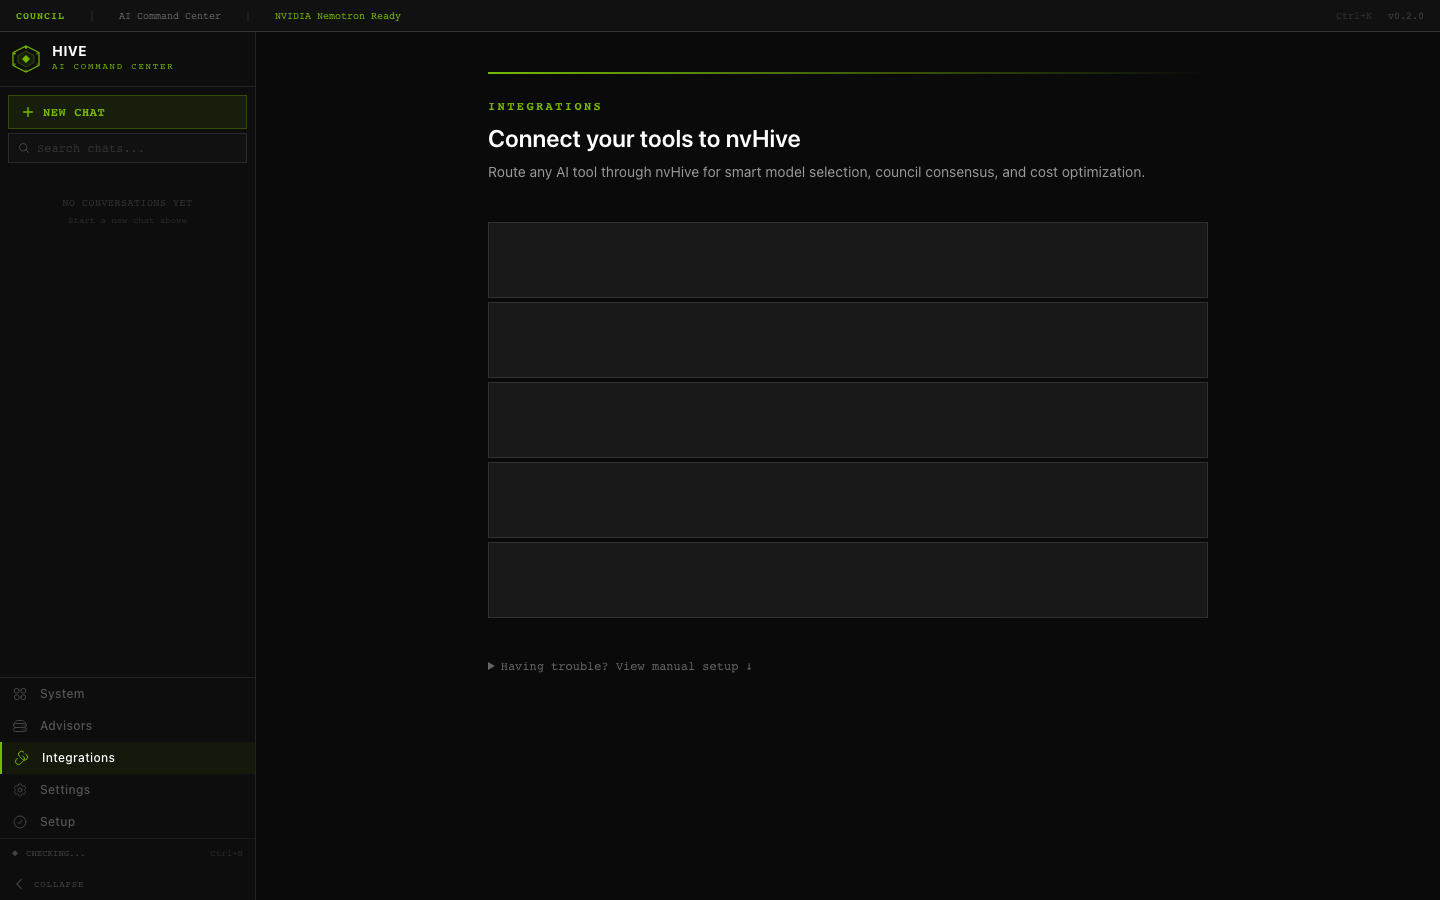
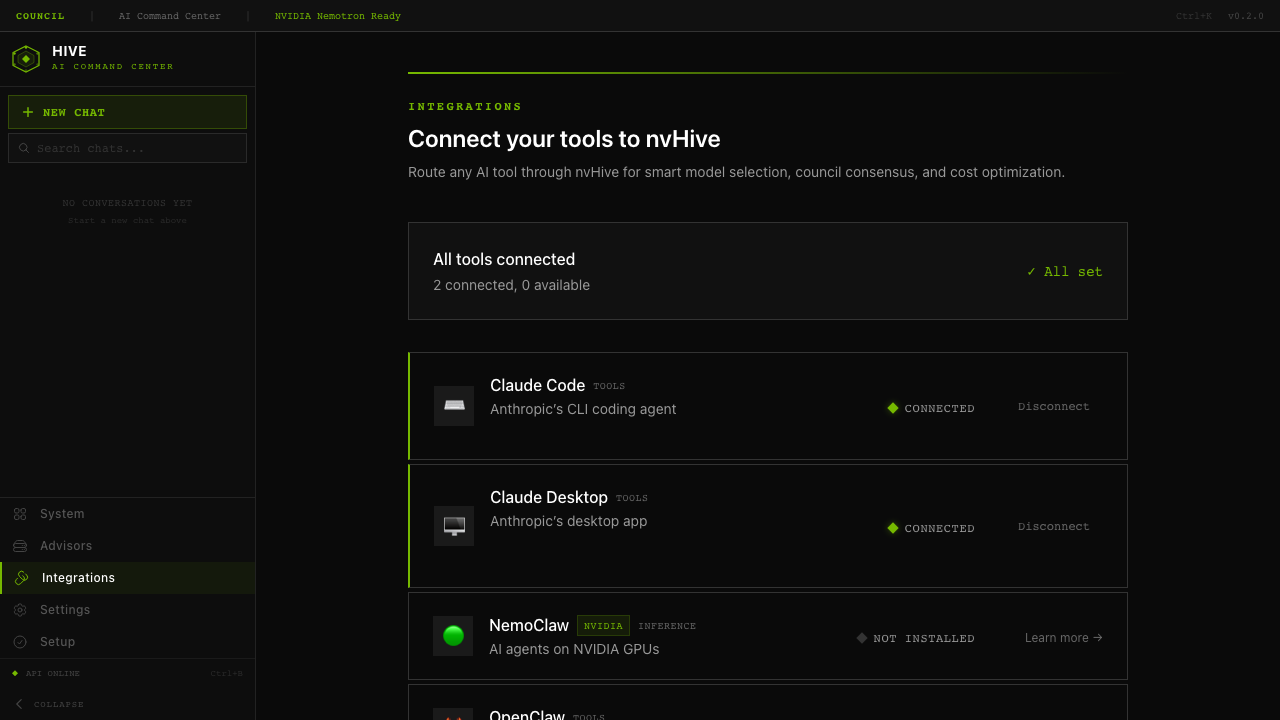
Update GIF and screenshots with populated data + CLI demo
- Recaptured WebUI GIF with real data (advisors showing LLM7 healthy,
  OpenAI configured, NVIDIA Nemotron recommended card)
- Longer capture wait times so provider cards fully load
- Updated standalone screenshots to match GIF frames
- CLI terminal demo SVG showing: install → setup → ask → council →
  webui → integrate flow with realistic output
- Both GIF and SVG displayed in README hero section

diff --git a/README.md b/README.md
@@ -8,6 +8,10 @@
   <img src="docs/screenshots/webui-walkthrough.gif" alt="nvHive Web UI" width="640">
 </p>
 
+<p align="center">
+  <img src="docs/screenshots/terminal-demo.svg" alt="nvHive CLI Demo" width="640">
+</p>
+
 - **Ask once, get the best model.** nvHive routes your question to the right LLM across 22 providers and 63 models — automatically, based on task type, cost, and privacy.
 - **Run it free on your GPU.** NVIDIA Nemotron models run locally via Ollama with no API keys, no cloud costs, no data leaving your machine.
 - **Council mode.** When one model isn't enough, multiple LLMs debate your question and synthesize a consensus answer.
